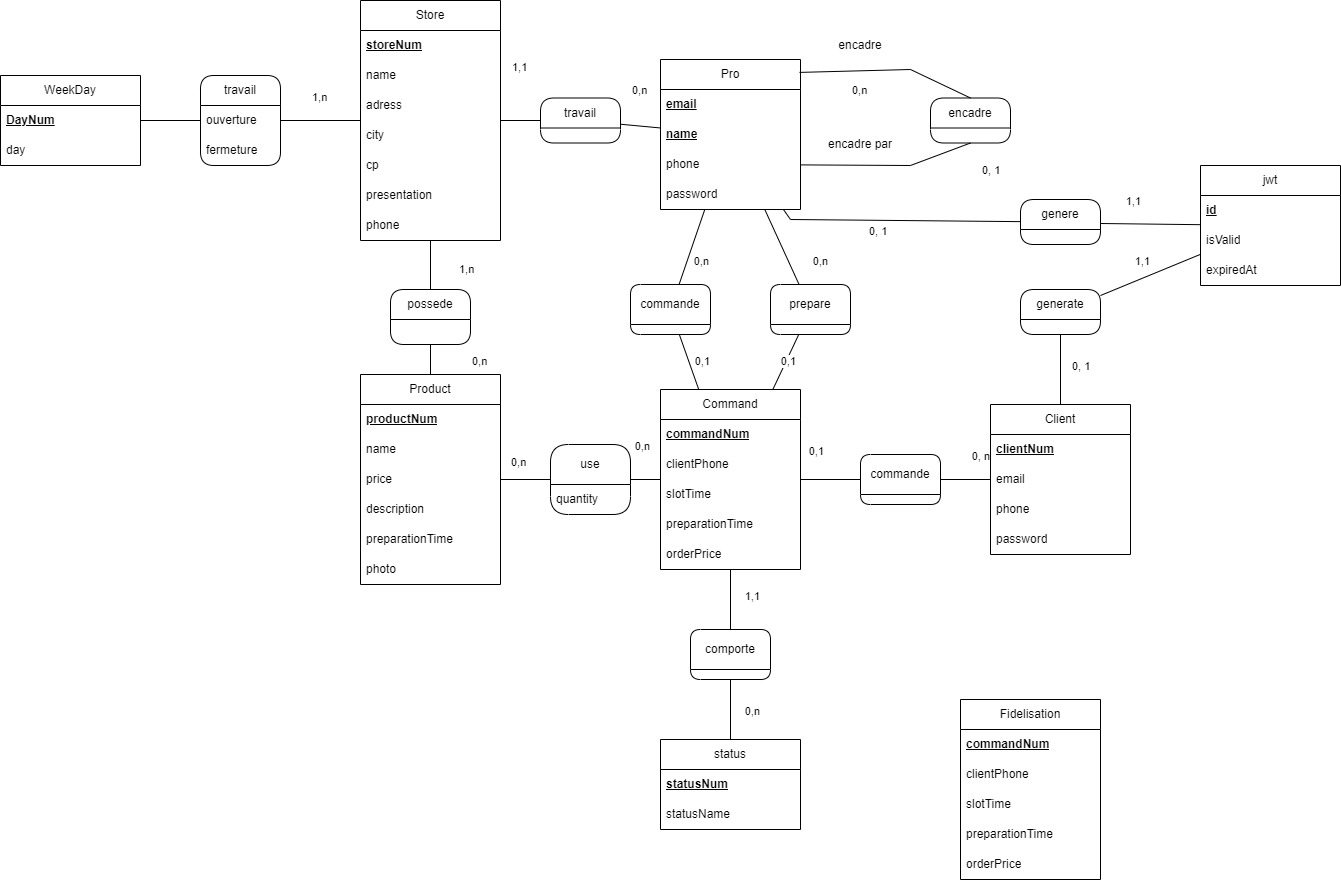
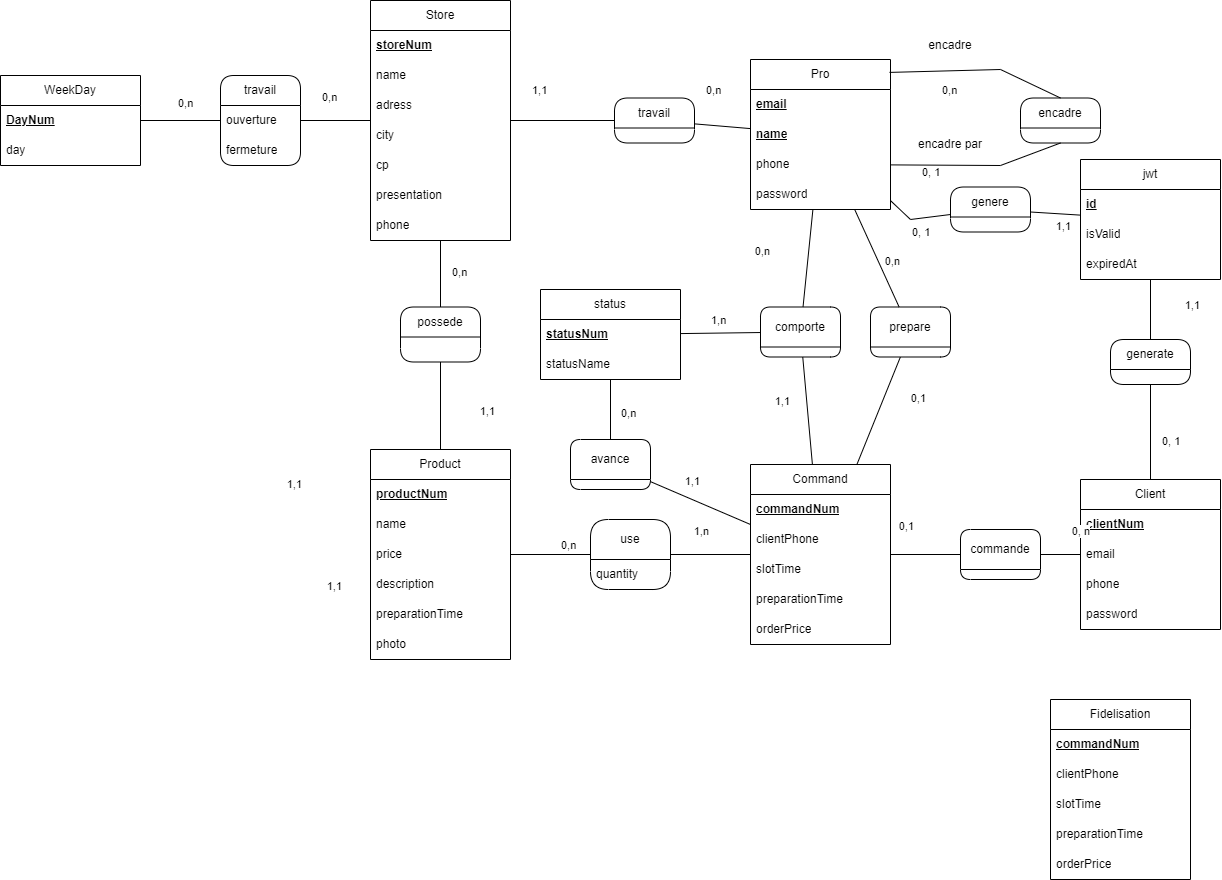
Complete to add commandStatus managment

diff --git a/src/main/java/ctoutweb/lalamiam/service/serviceImpl/NewCommandServiceImp.java b/src/main/java/ctoutweb/lalamiam/service/serviceImpl/NewCommandServiceImp.java
@@ -4,6 +4,7 @@ import ctoutweb.lalamiam.exception.CommandException;
 import ctoutweb.lalamiam.factory.Factory;
 import ctoutweb.lalamiam.helper.NewCommandServiceHelper;
 import ctoutweb.lalamiam.helper.NewSlotHelper;
+import ctoutweb.lalamiam.model.CommandStatus;
 import ctoutweb.lalamiam.model.dto.*;
 import ctoutweb.lalamiam.repository.CommandRepository;
 import ctoutweb.lalamiam.repository.entity.CommandEntity;
@@ -20,6 +21,7 @@ import java.time.LocalDate;
 import java.time.LocalDateTime;
 import java.time.LocalTime;
 import java.util.List;
+import java.util.Optional;
 import java.util.stream.Collectors;
 
 @Service
@@ -79,6 +81,28 @@ public class NewCommandServiceImp implements NewCommandService {
 
     // Recherche d'une commande
     return commandServiceHelper.findRegisterCommandInformation(command);
+  }
+
+  @Override
+  public RegisterCommandDto updateCommandStatus(ProUpdateCommandStatusDto proUpdateCommandStatus) {
+    CommandEntity findCommand = commandRepository.findById(proUpdateCommandStatus.commandId()).orElseThrow(()->
+            new CommandException("La commande à mettre à jour n'existe pas", HttpStatus.NOT_FOUND));
+
+    // Si commande existante alors vérification du storeId
+    if(!findCommand.getStore().getId().equals(proUpdateCommandStatus.storeId()))
+      throw new CommandException("Cette commande n'est pas rattaché au commerce", HttpStatus.BAD_REQUEST);
+
+    // Status valide
+    if(!CommandStatus.isStatusValid(proUpdateCommandStatus.commandStatus()))
+      throw new CommandException("Le statut de la commande n'existe pas", HttpStatus.BAD_REQUEST);
+
+    // Mise à jour de la commande
+    findCommand.setPreparedBy(Factory.getUSer(proUpdateCommandStatus.proId()));
+    findCommand.setCommandStatus(Factory.getCommandStatus(proUpdateCommandStatus.commandStatus()));
+    commandRepository.save(findCommand);
+
+    // Récuperation de la commande
+    return getCommand(proUpdateCommandStatus.storeId(), proUpdateCommandStatus.commandId());
   }
 
   @Override

diff --git a/src/main/java/ctoutweb/lalamiam/controller/ProController.java b/src/main/java/ctoutweb/lalamiam/controller/ProController.java
@@ -106,4 +106,26 @@ public class ProController {
     return new ResponseEntity<>(commandService.proPersistCommand(persitCommandInformation), HttpStatus.CREATED);
   }
 
+  @PutMapping("/command/update-status")
+  ResponseEntity<RegisterCommandDto> updateCommandStatus(@RequestBody ProUpdateCommandStatusDto proUpdateCommandStatus) {
+    Long proId = proUpdateCommandStatus.proId();
+    Long commandId = proUpdateCommandStatus.commandId();
+    Long storeId = proUpdateCommandStatus.storeId();
+
+    // Validation professionel
+    if(!proHelper.isProfessionalValid(proId))
+      throw new ProException("Vous ne pouvez pas acceder à cette commande", HttpStatus.FORBIDDEN);
+
+    if(commandId != null) {
+      if(!proHelper.isProWorkingInStore(proId, storeId))
+        throw new ProException("Vous n'êtes pas rattaché au commerce", HttpStatus.FORBIDDEN);
+
+      if(!proHelper.isCommandVisibleByPro(proId, commandId))
+        throw new ProException("Vous ne pouvez pas acceder à cette commande", HttpStatus.FORBIDDEN);
+    }
+
+    return new ResponseEntity<>(commandService.updateCommandStatus(proUpdateCommandStatus), HttpStatus.OK);
+
+  }
+
 }

diff --git a/src/main/java/ctoutweb/lalamiam/helper/ProHelper.java b/src/main/java/ctoutweb/lalamiam/helper/ProHelper.java
@@ -44,7 +44,7 @@ public class ProHelper {
     List<Long> storeIdList = storeService.getAllStoreByPro(proId);
 
     // verifie si la commande est rattaché à l'un des stores
-    Optional<CommandEntity> command = commandRepository.findOneCommandByStoreIn(
+    Optional<CommandEntity> command = commandRepository.findFirstCommandByStoreIn(
             storeIdList
                     .stream()
                     .map(storeId->Factory.getStore(storeId))
@@ -82,10 +82,7 @@ public class ProHelper {
       return false;
 
     // Verification Role en base de donnée
-    if(!findPro.get().getRoles().contains("ROLE_PRO"))
-      return false;
-
-    return true;
+    return !findPro.get().getRoles().stream().map(role->role.getRole()).anyMatch(role->role.equals("ROLE_PRO"));
   }
 
   /**

diff --git a/src/main/java/ctoutweb/lalamiam/service/NewCommandService.java b/src/main/java/ctoutweb/lalamiam/service/NewCommandService.java
@@ -1,5 +1,6 @@
 package ctoutweb.lalamiam.service;
 
+import ctoutweb.lalamiam.model.dto.ProUpdateCommandStatusDto;
 import ctoutweb.lalamiam.model.dto.StoreProductsInformationDto;
 import ctoutweb.lalamiam.model.dto.RegisterCommandDto;
 
@@ -27,4 +28,11 @@ public interface NewCommandService extends Command {
    * @return RegisterCommandDto
    */
   RegisterCommandDto getCommand(Long storeId, Long commandId);
+
+  /**
+   * Mise a jour du status d'une commande
+   * @param proUpdateCommandStatus ProUpdateCommandStatusDto
+   * @return StoreProductsInformationDto
+   */
+  RegisterCommandDto updateCommandStatus(ProUpdateCommandStatusDto proUpdateCommandStatus);
 }

diff --git a/src/main/java/ctoutweb/lalamiam/model/CommandStatus.java b/src/main/java/ctoutweb/lalamiam/model/CommandStatus.java
@@ -1,0 +1,31 @@
+package ctoutweb.lalamiam.model;
+
+import java.util.Arrays;
+
+public enum CommandStatus {
+  New_ORDER(1),
+  NOT_STARTED(2),
+  IN_PROGRESS(3),
+  FINISH(4),
+  PAID(5);
+
+  private final int value;
+
+  CommandStatus(int value) {
+    this.value = value;
+  }
+
+  public int getValue() {
+    return value;
+  }
+
+  /**
+   * Vérification si statut valide
+   * @param value int - Status a vérifier
+   * @return boolean
+   */
+  public static boolean isStatusValid(int value) {
+    return Arrays.stream(CommandStatus.values())
+            .anyMatch(statusValue -> statusValue.getValue() == value);
+  }
+}

diff --git a/src/main/java/ctoutweb/lalamiam/factory/Factory.java b/src/main/java/ctoutweb/lalamiam/factory/Factory.java
@@ -389,11 +389,20 @@ public class Factory {
   }
 
   /**
-   * Renvoie un status Waiting pour les commandes
+   * Renvoie le status initial à la création d'une commande
    * @return StatusEntity
    */
   public static StatusEntity getWaitingStatus() {
     final int waitingstatus = 1;
     return new StatusEntity(waitingstatus);
+  }
+
+  /**
+   * Renvoie un status pour les commandes
+   * @param status Ineteger - Status
+   * @return StatusEntity
+   */
+  public static StatusEntity getCommandStatus(Integer status) {
+    return new StatusEntity(status);
   }
 }

diff --git a/src/main/java/ctoutweb/lalamiam/repository/CommandRepository.java b/src/main/java/ctoutweb/lalamiam/repository/CommandRepository.java
@@ -24,7 +24,7 @@ public interface CommandRepository extends JpaRepository<CommandEntity, Long> {
   @Query(value = "select * from sc_lalamiam.command where slot_time between ?1 and ?2 and store_id=?3", nativeQuery = true)
   public List<CommandEntity> findCommandsByStoreIdDate(LocalDateTime startOfDay, LocalDateTime endOfDay, Long storeId);
 
-  public Optional<CommandEntity> findOneCommandByStoreIn(List<StoreEntity> stores);
+  public Optional<CommandEntity> findFirstCommandByStoreIn(List<StoreEntity> stores);
 
 
 

diff --git a/src/main/java/ctoutweb/lalamiam/model/dto/ProUpdateCommandStatusDto.java b/src/main/java/ctoutweb/lalamiam/model/dto/ProUpdateCommandStatusDto.java
@@ -1,0 +1,9 @@
+package ctoutweb.lalamiam.model.dto;
+
+public record ProUpdateCommandStatusDto(
+        Long storeId,
+        Long commandId,
+        Long proId,
+        Integer commandStatus
+) {
+}
